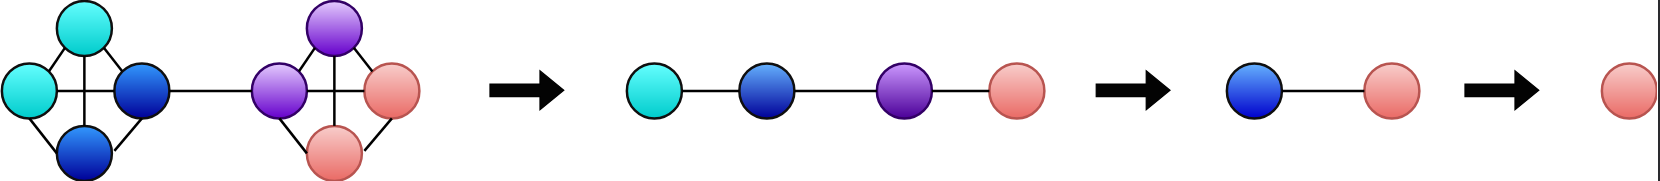
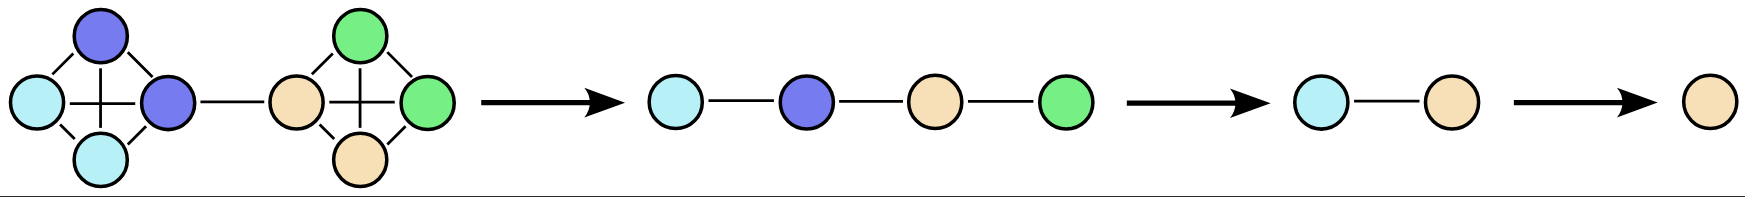
update

Changed region(s): [[0.0, 0.0, 1.0, 1.0]]

diff --git a/_posts/2024-08-23-HYGENE.md b/_posts/2024-08-23-HYGENE.md
@@ -11,6 +11,7 @@ categories: papers
 
 This blog post will summarize our recent paper, [**HYGENE: A Diffusion-based Hypergraph Generation Method**](http://arxiv.org/abs/2408.16457). To the best of our knowledge, this work introduces the first deep-learning based method for hypergraph generation. Code is available [here](https://github.com/DorianGailhard/SODA_Hypergraph-generation).
 
+**TL;DR:** We introduce a hypergraph generation method based on an "unzoom-zoom" principle. First, we compute increasingly coarse versions of a hypergraph ("unzoom"). Then, we train a model to reconstruct the original details from these simplified versions ("zoom"). To simplify processing, we project hypergraphs into graph space using two different projections, each preserving specific characteristics. Generation is achieved by repeatedly applying the trained model to zoom in, gradually increasing detail until the desired hypergraph size is reached.
 
 ## Preliminaries
 
@@ -73,7 +74,7 @@ In other words, given a dataset of unfeatured hypergraphs (without 3D positions,
 
 ## Main Inspiration
 
-Our work builds upon the foundation laid by the paper [Efficient and Scalable Graph Generation through Iterative Local Expansion](https://arxiv.org/abs/2312.11529), which introduces an innovative method for graph generation. This approach draws inspiration from the rich tradition of graph coarsening algorithms.
+Our work builds upon the foundation laid by the paper [Efficient and Scalable Graph Generation through Iterative Local Expansion](https://arxiv.org/abs/2312.11529), which introduces an innovative method for graph generation. This approach draws inspiration from the tradition of graph coarsening algorithms.
 
 When graphs become excessively large, certain algorithms may become computationally infeasible. To address this, it is possible to create smaller, representative versions of the original graph (called coarsened versions) that retain key characteristics and properties. The authors of the aforementioned paper employed a [spectrum-preserving graph coarsening](https://arxiv.org/abs/1808.10650) technique. This method merges pairs of adjacent nodes in a way that preserves a [subspace of the eigenvalues and eigenvectors of the original graph](https://en.wikipedia.org/wiki/Spectral_graph_theory), maintaining crucial structural information.
 
@@ -83,7 +84,7 @@ When graphs become excessively large, certain algorithms may become computationa
     </div>
 </div>
 <div class="caption">
-    During coarsening, pairs of adjacent nodes are iteratively merged in order to create a reduced version of the graphs while preserving its spectral properties.
+    During coarsening, pairs of adjacent nodes are iteratively merged in order to create a reduced version of the graphs while preserving its spectral properties, i.e., preserving its structural information. For instance, the above coarsening sequence preserves the two-blocks structure of the graph and does not merge them until the final step.
 </div>
 
 The coarsening algorithm is applied iteratively to create a coarsening sequence. The first element in this sequence is the original graph, while the last is a fully reduced version comprising a single node. The challenge then becomes training a model to invert this coarsening process.
@@ -104,7 +105,7 @@ The generation process simply involves applying this expansion and refinement pr
 
 ## Our Work
 
-We have successfully generalized this generation method to hypergraphs and tested it on several datasets. Given the challenges of working directly with hypergraphs due to variable hyperedge sizes and complex node relationships, we project the problem back into graph spaces using two equivalent representations.
+We have successfully generalized this generation method to hypergraphs and tested it on several datasets. Given the challenges of working directly with hypergraphs due to variable hyperedge sizes and complex node relationships, we project the problem back into graph space using two equivalent representations.
 
 ### Coarsening Sequence / Downsampling
 
